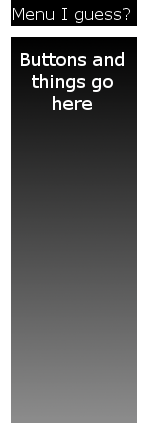
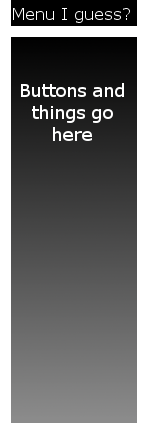
Making menu interactive
Now with Buttons!

Changed region(s): [[0.1389, 0.1204, 0.8611, 0.331], [0.6389, 0.1204, 0.8611, 0.1505]]

diff --git a/top_down_test_game/client/js/index.js b/top_down_test_game/client/js/index.js
@@ -5,6 +5,7 @@ var playerCount = 1;
 var playerCountText;
 let controls = {};
 var menu;
+var leftbutton;
 let gameover = 0;
 let collider;
 let player_id;
@@ -57,6 +58,8 @@ function preload() {
 	this.load.spritesheet('dude', 'client/assets/spritesheets/dude.png',{frameWidth: 32, frameHeight: 48});
     this.load.spritesheet('dude2', 'client/assets/spritesheets/dude2.png',{frameWidth: 32, frameHeight: 48});
 	this.load.image('menu', 'client/assets/images/menu.png',{frameWidth: 144, frameHeight: 432});
+	this.load.image('leftbutton', 'client/assets/images/leftbutton.png');
+	this.load.image('rightbutton', 'client/assets/images/rightbutton.png');
 
 }
 
@@ -120,14 +123,36 @@ function create() {
         var menu = this.add.image(848, 216, 'menu').setScrollFactor(0);
 		menu.depth = 5
 		//menu.setScrollFactor(4000, 4000)
-        menu.setInteractive();
+			//menu.setInteractive();
+				//menu.on('pointerdown', function () {
+					//menu.tint = Math.random() * 0xffffff;
 
-        menu.on('pointerdown', function () {
+        //};
+    }
+	{
+        this.input.setGlobalTopOnly(true);
 
-            menu.tint = Math.random() * 0xffffff;
+        var leftbutton = this.add.image(819, 51, 'leftbutton').setScrollFactor(0);
+		leftbutton.depth = 6
+		//menu.setScrollFactor(4000, 4000)
+			leftbutton.setInteractive();
+				leftbutton.on('pointerdown', function () {
+					menu.tint = 0x0000FF;
 
         });
     }
+	{
+        this.input.setGlobalTopOnly(true);
+
+        var rightbutton = this.add.image(883, 51, 'rightbutton').setScrollFactor(0);
+		rightbutton.depth = 6
+		//menu.setScrollFactor(4000, 4000)
+			rightbutton.setInteractive();
+				rightbutton.on('pointerdown', function () {
+					menu.tint = 0x008000;
+
+        });
+    }	
 
 	
 /////creates the available animations to call on when moving sprites/////
